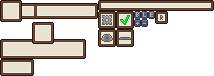
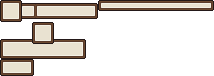
Added Luck Skill, update recolors

Changed region(s): [[0.4486, 0.1316, 0.785, 0.6316]]

diff --git a/AbilitiesExperienceBars/ModEntry.cs b/AbilitiesExperienceBars/ModEntry.cs
@@ -516,32 +516,40 @@ namespace AbilitiesExperienceBars
                 levelExtended = true;
             spaceCoreAPI = Helper.ModRegistry.GetApi<ISpaceCoreApi>("spacechase0.SpaceCore");
 
-            // Add Base Skills
+            // Base Skills
             playerSkills.Add(new SkillEntry(spaceCoreAPI, "farming", 1, iconSheet, new Color(115, 150, 56), levelExtended));
             playerSkills.Add(new SkillEntry(spaceCoreAPI, "fishing", 2, iconSheet, new Color(117, 150, 150), levelExtended));
             playerSkills.Add(new SkillEntry(spaceCoreAPI, "foraging", 6, iconSheet, new Color(145, 102, 0), levelExtended));
             playerSkills.Add(new SkillEntry(spaceCoreAPI, "mining", 3, iconSheet, new Color(150, 80, 120), levelExtended));
             playerSkills.Add(new SkillEntry(spaceCoreAPI, "combat", 4, iconSheet, new Color(150, 31, 0), levelExtended));
 
-            // Mod Compatibility
+            // Spacechase Skill Mods
             if (this.Helper.ModRegistry.IsLoaded("spacechase0.LuckSkill"))
                 playerSkills.Add(new SkillEntry(spaceCoreAPI, "luck", 5, iconSheet, new Color(150, 150, 0), levelExtended));
             if (this.Helper.ModRegistry.IsLoaded("spacechase0.CookingSkill"))
                 playerSkills.Add(new SkillEntry(spaceCoreAPI, "cooking", 12, iconSheet, new Color(196, 76, 255), levelExtended));
-            if (this.Helper.ModRegistry.IsLoaded("moonslime.CookingSkill"))
-                playerSkills.Add(new SkillEntry(spaceCoreAPI, "moonslime.Cooking", 10, iconSheet, new Color(196, 76, 255), levelExtended));
-            if (this.Helper.ModRegistry.IsLoaded("blueberry.LoveOfCooking"))
-                playerSkills.Add(new SkillEntry(spaceCoreAPI, "blueberry.LoveOfCooking.CookingSkill", 11, iconSheet, new Color(57, 135, 214), levelExtended));
-            if (this.Helper.ModRegistry.IsLoaded("moonslime.ArchaeologySkill"))
-                playerSkills.Add(new SkillEntry(spaceCoreAPI, "moonslime.Archaeology", 7, iconSheet, new Color(205, 127, 50), levelExtended));
-            if (this.Helper.ModRegistry.IsLoaded("drbirbdev.SocializingSkill"))
-                playerSkills.Add(new SkillEntry(spaceCoreAPI, "drbirbdev.Socializing", 9, iconSheet, new Color(221, 0, 59), levelExtended));
-            if (this.Helper.ModRegistry.IsLoaded("Achtuur.StardewTravelSkill"))
-                playerSkills.Add(new SkillEntry(spaceCoreAPI, "Achtuur.Travelling", 13, iconSheet, new Color(100, 189, 132), levelExtended));
-            if (this.Helper.ModRegistry.IsLoaded("drbirbdev.BinningSkill"))
-                playerSkills.Add(new SkillEntry(spaceCoreAPI, "drbirbdev.Binning", 8, iconSheet, new Color(60, 60, 77), levelExtended));
             if (this.Helper.ModRegistry.IsLoaded("spacechase0.Magic"))
                 playerSkills.Add(new SkillEntry(spaceCoreAPI, "magic", 14, iconSheet, new Color(0, 66, 255), levelExtended));
+
+            // MoonSlime Skill Mods
+            if (this.Helper.ModRegistry.IsLoaded("moonslime.CookingSkill"))
+                playerSkills.Add(new SkillEntry(spaceCoreAPI, "moonslime.Cooking", 10, iconSheet, new Color(196, 76, 255), levelExtended));
+            if (this.Helper.ModRegistry.IsLoaded("moonslime.ArchaeologySkill"))
+                playerSkills.Add(new SkillEntry(spaceCoreAPI, "moonslime.Archaeology", 7, iconSheet, new Color(205, 127, 50), levelExtended));
+            if (this.Helper.ModRegistry.IsLoaded("moonslime.Luck"))
+                playerSkills.Add(new SkillEntry(spaceCoreAPI, "moonslime.Luck", 21, iconSheet, new Color(150, 150, 0), levelExtended));
+
+            // drbirbdev Skill Mods
+            if (this.Helper.ModRegistry.IsLoaded("drbirbdev.SocializingSkill"))
+                playerSkills.Add(new SkillEntry(spaceCoreAPI, "drbirbdev.Socializing", 9, iconSheet, new Color(221, 0, 59), levelExtended));
+            if (this.Helper.ModRegistry.IsLoaded("drbirbdev.BinningSkill"))
+                playerSkills.Add(new SkillEntry(spaceCoreAPI, "drbirbdev.Binning", 8, iconSheet, new Color(60, 60, 77), levelExtended));
+
+            // Other Skills
+            if (this.Helper.ModRegistry.IsLoaded("blueberry.LoveOfCooking"))
+                playerSkills.Add(new SkillEntry(spaceCoreAPI, "blueberry.LoveOfCooking.CookingSkill", 11, iconSheet, new Color(57, 135, 214), levelExtended));
+            if (this.Helper.ModRegistry.IsLoaded("Achtuur.StardewTravelSkill"))
+                playerSkills.Add(new SkillEntry(spaceCoreAPI, "Achtuur.Travelling", 13, iconSheet, new Color(100, 189, 132), levelExtended));
 
             // Sword and Sorcery
             SpecialSkillCheck();
